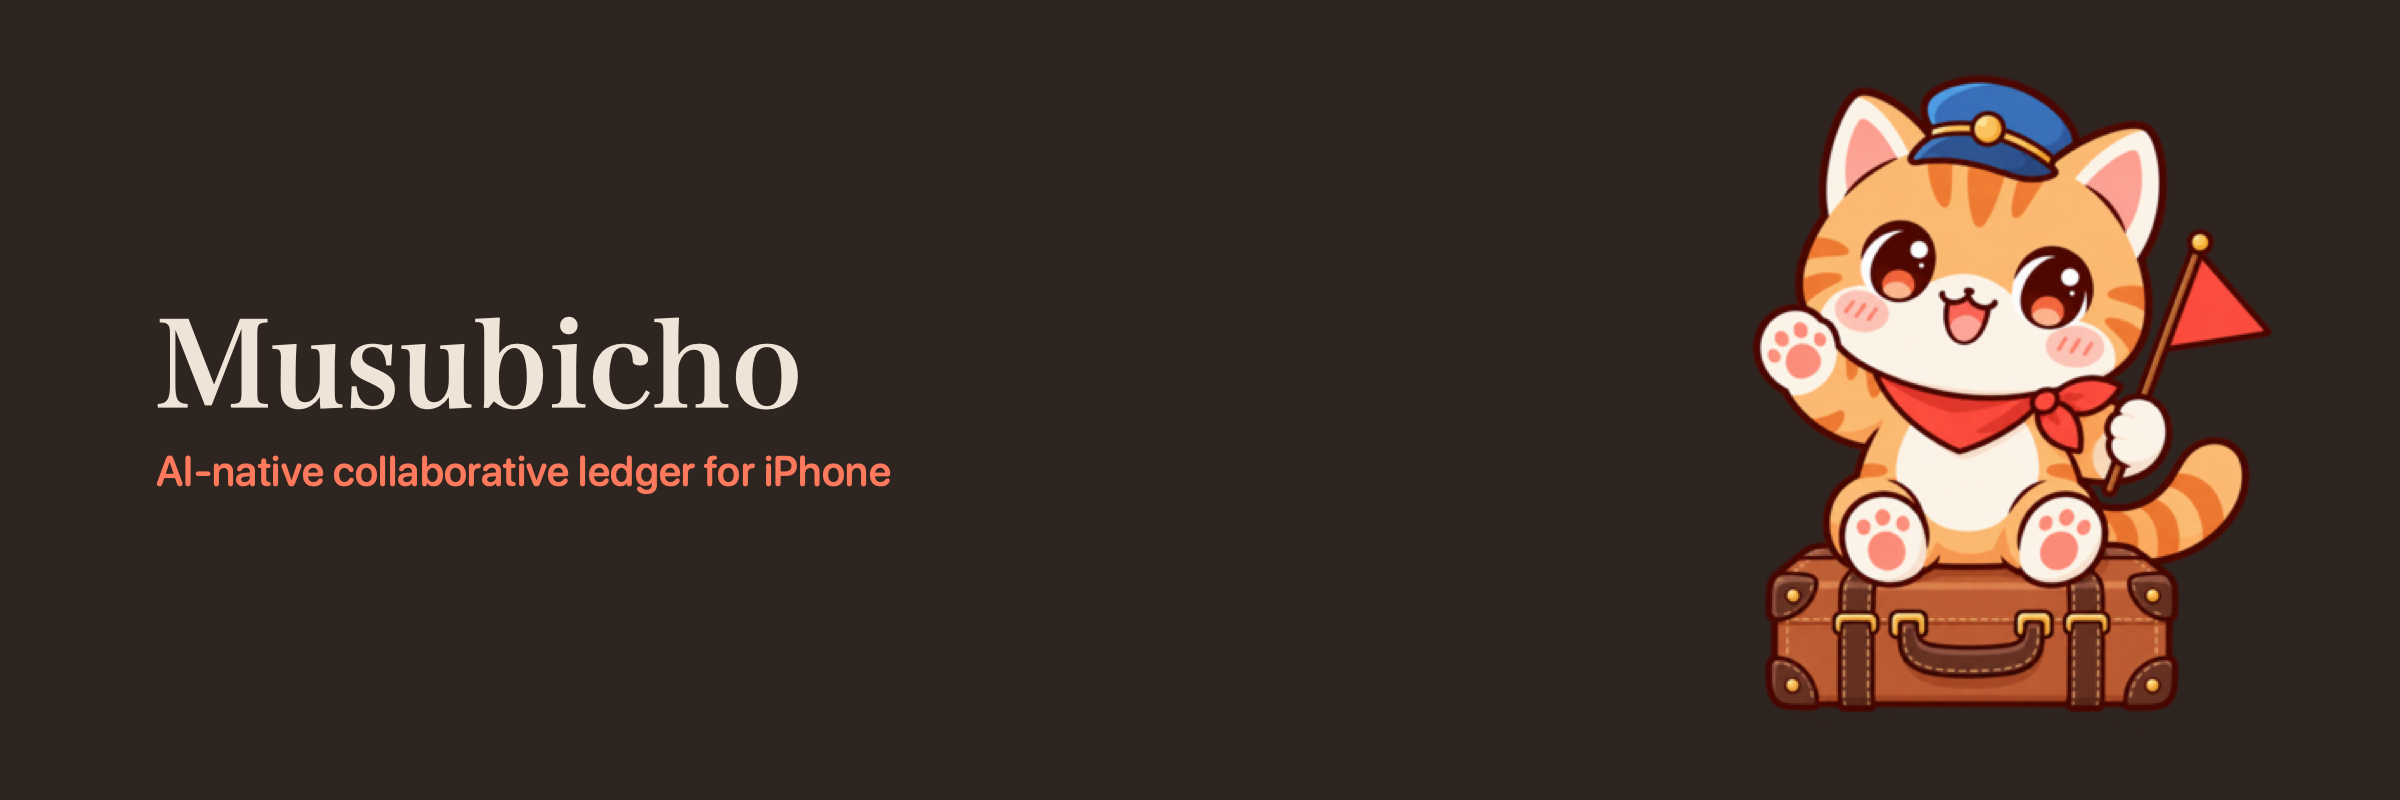
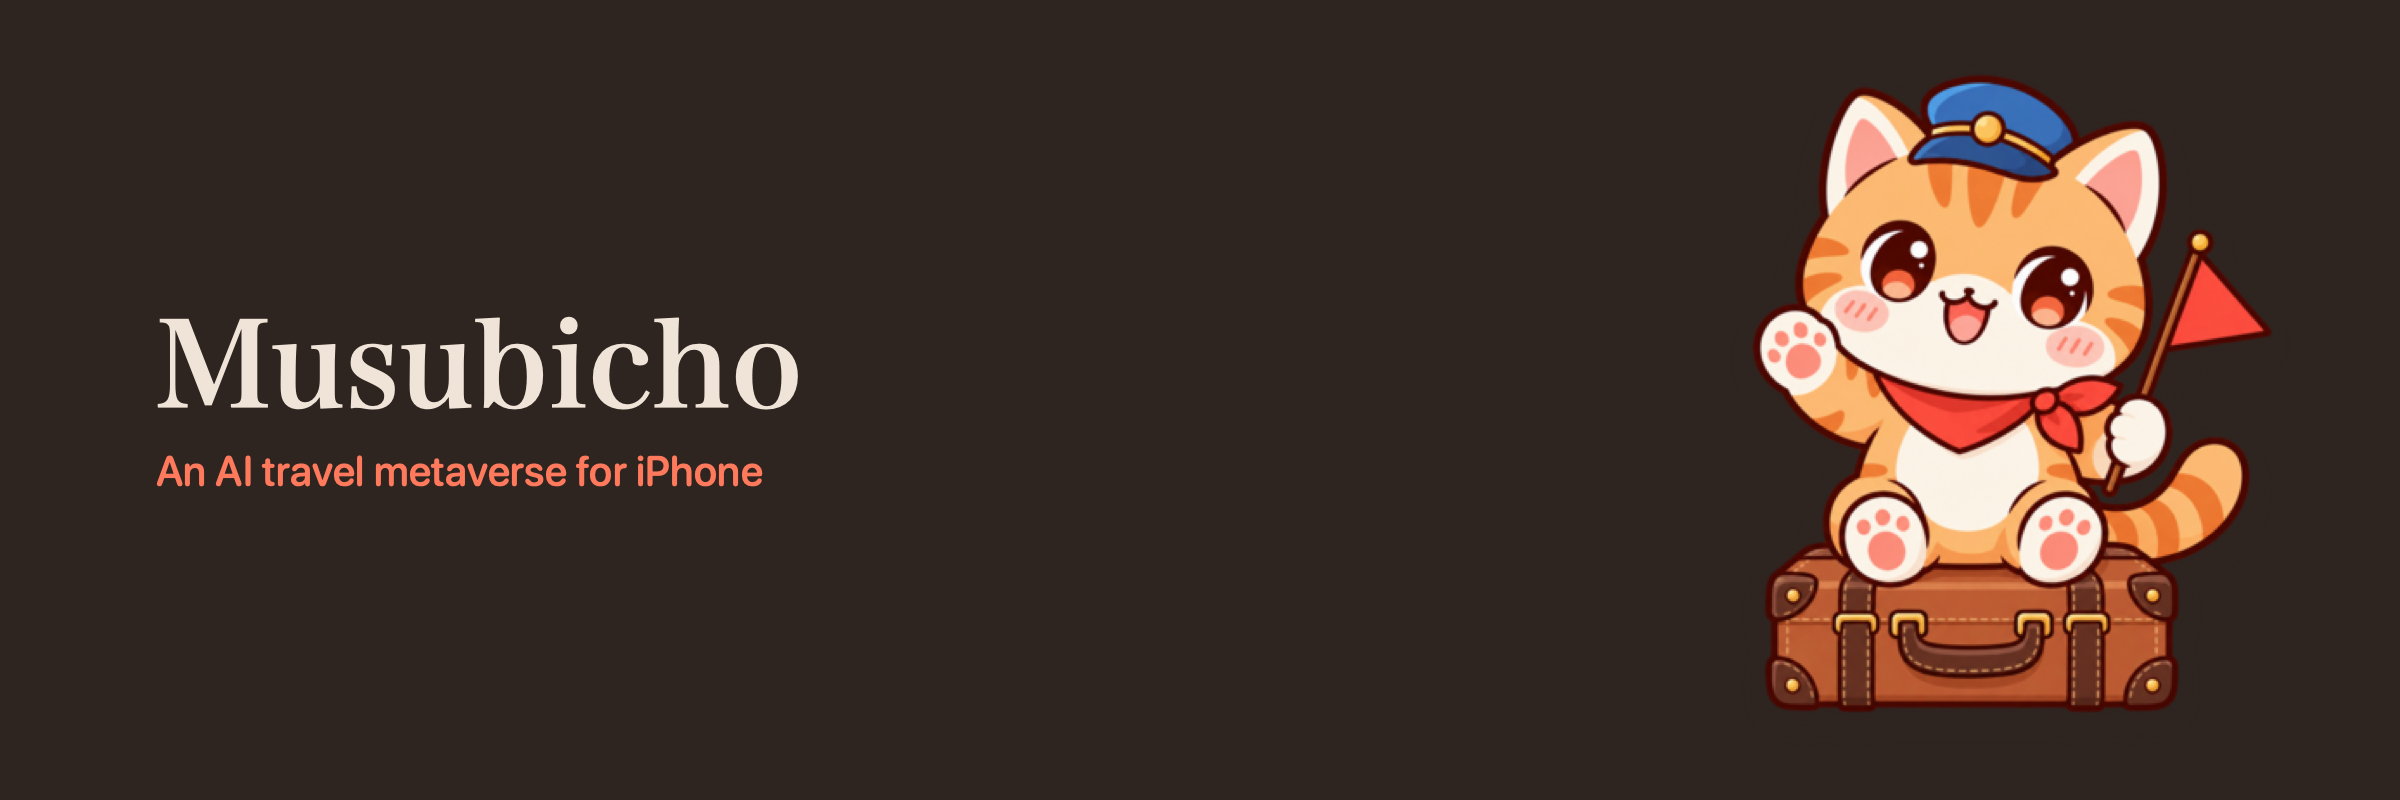
docs: describe Musubicho as an AI travel metaverse
The org profile still introduced a ledger app. The README now covers the shared trip in English, Japanese, and Chinese, and the banner uses the same line.

Changed region(s): [[0.0625, 0.5625, 0.375, 0.625]]

diff --git a/profile/README.md b/profile/README.md
@@ -1,26 +1,41 @@
 <picture>
   <source media="(prefers-color-scheme: dark)" srcset="./banner-dark.png">
-  <img alt="Musubicho" src="./banner.png">
+  <img alt="Musubicho, an AI travel metaverse" src="./banner.png">
 </picture>
 
-**An AI-native collaborative ledger for iPhone.** Snap a receipt or just say what happened — the agent turns it into structured expenses, splits, and balances for everyone on the trip.
+**An AI travel metaverse for iPhone.** A trip is a world you share: the days, the places, the people, and the money. Tell Musubi what happened, or show a photo, and that world updates around you.
 
-- **Agent first** — no forms. Describe it, photograph it, correct it in conversation.
-- **Receipt understanding** — line items, tax, fees, and discounts, split by item or evenly.
-- **Shared ledgers** — invite friends, sync across devices, settle up in any currency.
-- **Map** — every expense pinned where it happened.
-- **Local first** — your ledger lives on your device; the cloud syncs, it doesn't own.
+- **One trip, one world** — plans, the journey, the map, and the money stay together.
+- **Agent first** — describe it, photograph it, correct it in conversation.
+- **The days** — flights, stays, meals, and places you want to go, from the first morning to the last night.
+- **The places** — every plan and expense pinned where it happened.
+- **The money** — receipts, fair splits, any currency, settled with the people who were there.
+- **Local first** — the trip lives on your device; the cloud syncs it.
 
-Built with UIKit + SwiftUI for iOS 26. Musubicho starts with the money side of a trip and is growing toward a full travel companion for planning, moving, and remembering together.
+Musubi is the companion in that world. Built with UIKit and SwiftUI for iOS 26.
 
 ---
 
-**AI 协同记账 / AA 分账 iPhone App。** 拍一张小票，或者直接说发生了什么，Agent 会把它整理成结构化的消费、分摊与结余。
+**iPhone のための AI 旅行メタバース。** 旅行は、みんなで共有する一つの世界です。日程、場所、仲間、そしてお金。むすびに話しかけるか、写真を見せれば、その世界が更新されます。
 
-- **Agent First**：不填表单，描述、拍照、在对话里修改即可
-- **小票理解**：识别明细、税费与折扣，按项目或平均分摊
-- **协同账本**：邀请同伴，多设备同步，支持多币种结算
-- **地图**：每笔消费都标在发生的地方
-- **Local First**：账本在你的设备上，云端只负责同步
+- **一つの旅行、一つの世界** — 予定、旅程、地図、お金が同じ場所にある
+- **話しかければいい** — 起きたことを話す、写真を撮る、会話の中で直す
+- **日程** — フライト、宿、食事、行きたい場所を、最初の朝から最後の夜まで
+- **場所** — 予定も支出も、それが起きた場所に残る
+- **お金** — レシートを読み、公平に割り、どの通貨でも精算する
+- **ローカルファースト** — 旅行は端末の中にあり、クラウドは同期するだけ
 
-Musubicho 从旅行中的「钱」开始，逐步走向一起计划、出行和回忆的完整旅行伙伴。
+その世界にいる相棒が、むすびです。UIKit と SwiftUI で、iOS 26 向けに作っています。
+
+---
+
+**给 iPhone 的 AI 旅游元宇宙。** 一趟旅行，就是你们一起待着的世界：日程、地点、人和钱。跟饭团说一声，或者给它看一张照片，这个世界会跟着更新。
+
+- **一趟旅行，一个世界** — 行程、地图和钱在同一个地方
+- **说一声就行** — 讲发生了什么，拍一张，在对话里改
+- **日程** — 航班、住宿、吃饭、想去的地方，从第一天排到最后一夜
+- **地点** — 行程和消费，都标在发生的地方
+- **钱** — 读懂小票，公平分摊，哪种货币都能结清
+- **本地优先** — 旅行在你的设备上，云端只负责同步
+
+饭团是这个世界里的同伴。用 UIKit 和 SwiftUI，写给 iOS 26。
